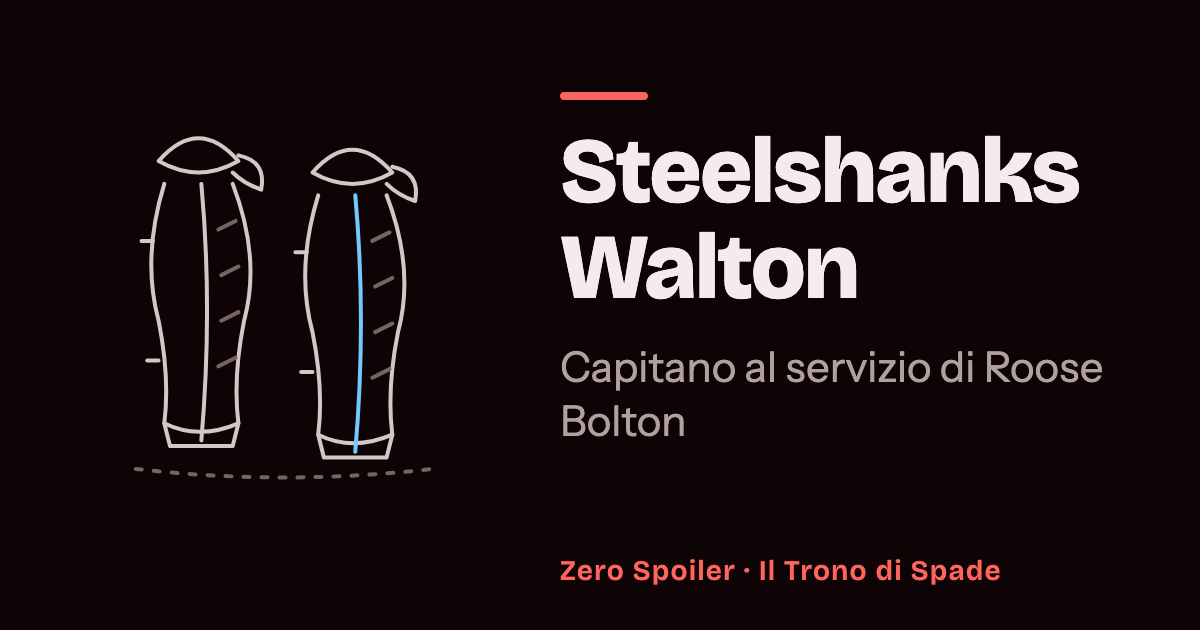
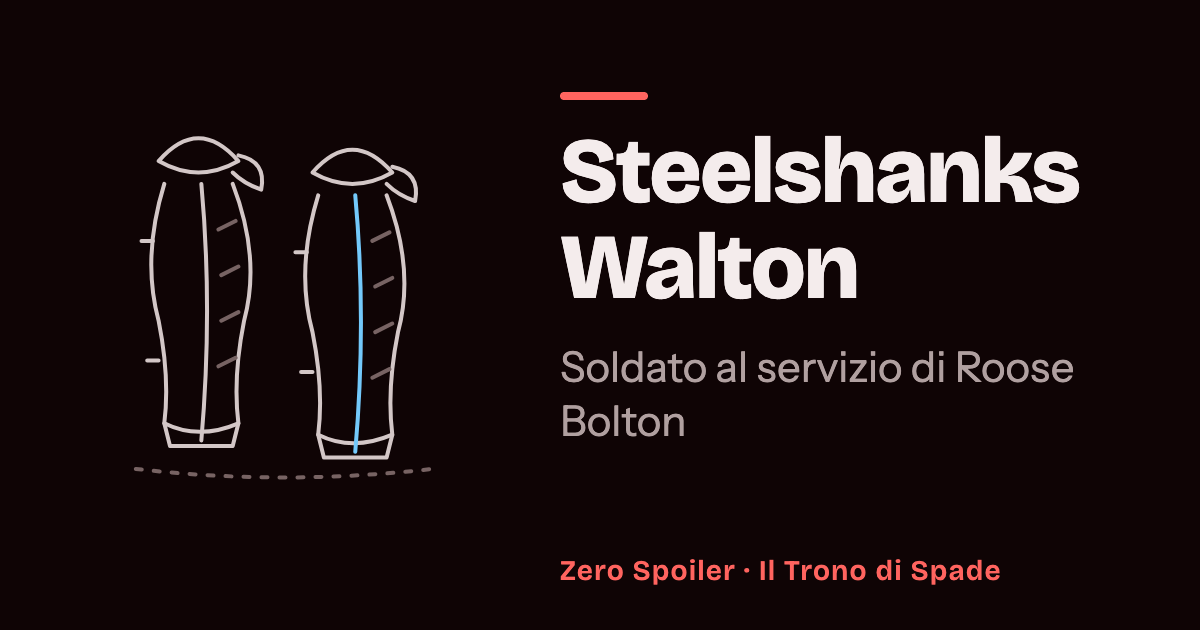
fix(art): review round 1 for the third stage's drawing audit
- Test Steelshanks Walton's escort step at chapter 188.
- Word his chapter-181 role, log and summary as "soldier", the word
  Roose's line carries, and update his provenance paragraph.
- Move the banner in Meereen's taken stage off the harpy's wing.

Changed region(s): [[0.4625, 0.5429, 0.925, 0.6333]]

diff --git a/src/data/series/game-of-thrones/records/season-3.ts b/src/data/series/game-of-thrones/records/season-3.ts
@@ -1177,8 +1177,8 @@ export const season3: ThronesSaga = {
           chapter: 181,
           source: 'chapter',
           value: {
-            it: 'Capitano al servizio di Roose Bolton',
-            en: 'Captain in Roose Bolton’s service',
+            it: 'Soldato al servizio di Roose Bolton',
+            en: 'Soldier in Roose Bolton’s service',
           },
         },
         // He leads the two hundred Dreadfort men who take Jaime to King's
@@ -1195,8 +1195,8 @@ export const season3: ThronesSaga = {
         },
       ],
       log: {
-        it: 'È un capitano di Roose Bolton a Harrenhal, che Roose nomina parlando con Jaime Lannister.',
-        en: 'A captain of Roose Bolton’s at Harrenhal, whom Roose names to Jaime Lannister.',
+        it: 'È un soldato di Roose Bolton a Harrenhal. Roose lo nomina a Jaime Lannister come un uomo di ferrea lealtà.',
+        en: 'A soldier of Roose Bolton’s at Harrenhal. Roose names him to Jaime Lannister as a man of iron loyalty.',
       },
       status: [
         { episode: 27, chapter: 181, source: 'chapter', value: 'alive' },
@@ -2072,8 +2072,8 @@ export const season3: ThronesSaga = {
       revealedAtChapter: 181,
       name: { it: 'Steelshanks Walton', en: 'Steelshanks Walton' },
       summary: {
-        it: 'Un capitano al servizio di Roose Bolton.',
-        en: 'A captain in Roose Bolton’s service.',
+        it: 'Un soldato al servizio di Roose Bolton.',
+        en: 'A soldier in Roose Bolton’s service.',
       },
       visual: { art: 'steelshanks-walton', tint: 'azure' },
     },

diff --git a/src/data/series/game-of-thrones/art/places.ts b/src/data/series/game-of-thrones/art/places.ts
@@ -3008,14 +3008,14 @@ const YUNKAI_TAKEN: Stroke[] = [
 
 /**
  * Meereen taken: the same pyramid and wall, the Targaryen banner flying
- * from its top beside the harpy, as the freed slaves open the gates in
+ * from a tier beside the harpy, clear of its wing, as the freed slaves open the gates in
  * "Oathkeeper" (episode 34) and Daenerys's men in the sewers do in
  * Daenerys VI (chapter 215). The accent moves to the banner.
  */
 const MEEREEN_TAKEN: Stroke[] = [
   { ...MEEREEN_HARPY, role: 'soft' },
   ...MEEREEN_PYRAMID,
-  { d: 'M90 62 V18 M90 20 H116 V50 L103 44 L90 50', role: 'accent' },
+  { d: 'M106 90 V30 M106 32 H132 V62 L119 56 L106 62', role: 'accent' },
 ]
 
 /**

diff --git a/src/server/archive/thronesSeason3Harrenhal.test.ts b/src/server/archive/thronesSeason3Harrenhal.test.ts
@@ -121,6 +121,13 @@ const STEPS: {
     chapter: 165,
     source: 'chapter',
   },
+  {
+    id: 'steelshanks-walton',
+    en: 'Captain of Jaime Lannister’s escort',
+    episode: 27,
+    chapter: 188,
+    source: 'chapter',
+  },
 ]
 
 type Unit = 'chapter' | 'episode'

diff --git a/docs/content-provenance/game-of-thrones-season-3-characters.md b/docs/content-provenance/game-of-thrones-season-3-characters.md
@@ -750,11 +750,12 @@ order them.
   neither changes a field. Italian "Qyburn" (Personaggi). His death in "The
   Bells" (72), the show's alone, is filed by #1645, `deceased` with his
   drawing's stage, chapter 344 ordering it (#1238).
-- Steelshanks Walton: books only, role captain in Roose Bolton's service, House
-  Bolton, alive. His log holds Jaime VI: the escort, the turn back for Brienne,
-  his men's crossbows against the bear. Italian kept: Italian Wikipedia has no
-  entry and the Mondadori form was not checked. #1645 moves his tint from red to
-  azure: his drawing is a pair of steel greaves, with nothing red on it.
+- Steelshanks Walton: books only, role soldier in Roose Bolton's service at 181
+  (Roose's "a soldier of iron loyalty"; #1667, was captain), then captain of
+  Jaime Lannister's escort at 188 (Jaime VI), House Bolton, alive. His log holds
+  only Jaime V (181): Roose names him to Jaime. Italian kept: Italian Wikipedia
+  has no entry and the Mondadori form was not checked. #1645 moves his tint from
+  red to azure: his drawing is a pair of steel greaves, with nothing red on it.
 
 ### Pending
 
